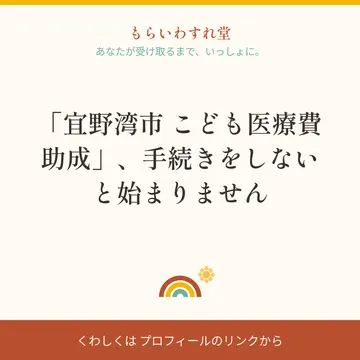
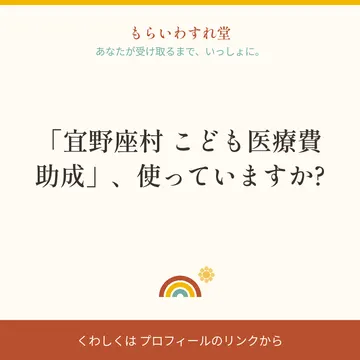
auto: もらいわすれ堂 週次レポート 2026-11-16

Changed region(s): [[0.0917, 0.3056, 0.9167, 0.5806]]

diff --git a/site/staff/haruka/index.html b/site/staff/haruka/index.html
@@ -35,8 +35,8 @@ h2{font-size:1.02rem;margin-bottom:10px;line-height:1.5}
 </head>
 <body>
 <div class="wrap">
-<h1>🌈 今週のIG投稿案(2026-W46)</h1>
-<p class="sub">更新: 2026-11-09 / 毎週月曜に自動更新 / このページは検索に載らない内部ページです</p>
+<h1>🌈 今週のIG投稿案(2026-W47)</h1>
+<p class="sub">更新: 2026-11-16 / 毎週月曜に自動更新 / このページは検索に載らない内部ページです</p>
 <div class="howto"><strong>遥さんの3分ルーティン(投稿画像も完成品です)</strong><br>
 ① 画像を長押しで保存 → ② 「キャプションをコピー」→ ③ Instagramに投稿(画像+キャプション貼り付け)<br>
 ④ 投稿したら、<b>投稿案メールに返信</b>で「案1 投稿した」と一言(使わない案は「案4 なし」)<br><span style="color:#B9502F">※LINEはこちらから送る専用で、返信を受け取れません</span><br>
@@ -45,16 +45,16 @@ h2{font-size:1.02rem;margin-bottom:10px;line-height:1.5}
 
 <div class="card">
   <div class="no">案1</div>
-  <h2>「宜野湾市 こども医療費助成」、手続きをしないと始まりません</h2>
+  <h2>「宜野座村 こども医療費助成」、使っていますか?</h2>
   <img class="igimg" src="img/ig1.png" alt="投稿画像 案1">
   <p class="hint">🖼 画像はこのまま使えます: 長押し(PCは右クリック)→保存→Instagramへ</p>
-  <div class="facts ok"><b>✅ 原文と照合ずみです(2026-08-06時点)</b><p>ここに書いてある範囲は、こちらで公式ページと突き合わせています。改めて読み直さずに使っていただいて大丈夫です。<br>ただし<b>「要確認」と書いてある項目だけは断定しないでください</b>(制度はあるが、金額や条件までは詰め切れていない、という意味です)。</p><dl><dt>制度名</dt><dd>宜野湾市 こども医療費助成</dd><dt>どこの制度か</dt><dd>宜野湾市</dd><dt>だれが対象か</dt><dd>宜野湾市に住み健康保険に加入している18歳(高校生年代)までのお子さんがいる世帯が対象となる可能性があります(令和7年10月〜拡大)</dd><dt>いくら</dt><dd>令和7年10月から18歳(高校生年代・年度末)までの通院・入院の医療費(保険診療分)が窓口無料(現物給付)になりました(要確認)</dd><dt>どこへ申し込むか</dt><dd>宜野湾市 こども企画課(こども医療費助成担当)窓口またはオンライン申請</dd><dt>いつまで</dt><dd>常時</dd></dl></div>
-  <div class="cap" id="cap1">子育て中のご家庭に、知らないままの方が多い制度です。「宜野湾市 こども医療費助成」。宜野湾市に住み健康保険に加入している18歳(高校生年代)までのお子さんがいる世帯が対象となる可能性があります(令和7年10月〜拡大)。申し込みの窓口は宜野湾市 こども企画課(こども医療費助成担当)窓口またはオンライン申請。金額や細かい条件は年度で変わることがあるので、このページでご確認ください。「うちは対象かな?」と思ったら、まず公式ページを見てみてください。
+  <div class="facts ok"><b>✅ 原文と照合ずみです(2026-08-06時点)</b><p>ここに書いてある範囲は、こちらで公式ページと突き合わせています。改めて読み直さずに使っていただいて大丈夫です。<br>ただし<b>「要確認」と書いてある項目だけは断定しないでください</b>(制度はあるが、金額や条件までは詰め切れていない、という意味です)。</p><dl><dt>制度名</dt><dd>宜野座村 こども医療費助成</dd><dt>どこの制度か</dt><dd>宜野座村</dd><dt>だれが対象か</dt><dd>宜野座村にお住まいで健康保険に加入しているお子さんを育てるご家庭が対象となる可能性があります。</dd><dt>いくら</dt><dd>出生(転入)から18歳(高校卒業年度末)までの医療費(保険診療分)を助成(要確認)</dd><dt>どこへ申し込むか</dt><dd>宜野座村役場 健康福祉課窓口</dd><dt>いつまで</dt><dd>常時</dd></dl></div>
+  <div class="cap" id="cap1">子育て中のご家庭に、知らないままの方が多い制度です。「宜野座村 こども医療費助成」。宜野座村にお住まいで健康保険に加入しているお子さんを育てるご家庭が対象になることがあります。申し込みの窓口は宜野座村役場 健康福祉課窓口。金額や細かい条件は年度で変わることがあるので、このページでご確認ください。「うちは対象かな?」と思ったら、まず公式ページを見てみてください。
 
-#もらいわすれ堂 #宜野湾市 #子育て #医療費 #宜野湾市こども医療費助成</div>
+#もらいわすれ堂 #宜野座村 #子育て #医療費 #宜野座村こども医療費助成</div>
   <button class="copy" data-t="cap1">キャプションをコピー</button>
-  <p class="caution">⚠ 投稿前の注意: 金額・期限・対象条件は本文に書かない(照合日 2026-08-06 時点の記録に基づく案のため)。「対象になることがあります」の言い方を崩さない。制度ID fk-ginowan-kodomo-iryo<br>
-  出典: <a href="https://www.city.ginowan.lg.jp/soshiki/kodomo/3/4/9333.html" rel="noopener" target="_blank">公式ページを開く</a></p>
+  <p class="caution">⚠ 投稿前の注意: 金額・期限・対象条件は本文に書かない(照合日 2026-08-06 時点の記録に基づく案のため)。「対象になることがあります」の言い方を崩さない。制度ID fk-ginoza-kodomo-iryo<br>
+  出典: <a href="https://www.vill.ginoza.okinawa.jp/tetsuzuki/29.html" rel="noopener" target="_blank">公式ページを開く</a></p>
 </div>
 <p class="sub">投稿の最終判断は遥さん・小柳さんにお任せします(ここは提案まで)。文面の相談はチャットへいつでもどうぞ。</p>
 </div>

diff --git a/reports/fukugiiro/latest.md b/reports/fukugiiro/latest.md
@@ -1,6 +1,6 @@
-# もらいわすれ堂 週次レポート 2026-W46
+# もらいわすれ堂 週次レポート 2026-W47
 
-生成: 2026-11-09 12:19 JST(統括ユイさん・自動生成 / 達成くんフォーマット準拠)
+生成: 2026-11-16 12:28 JST(統括ユイさん・自動生成 / 達成くんフォーマット準拠)
 北極星: **実受給額カウンター**。登録・PVが伸びても、この数字が動かなければ「進んでいない」。
 
 ---
@@ -19,10 +19,10 @@
 
 | 北極星 | 現在地 | 12ヶ月目標 | 必要ペース(週) |
 |---|---|---|---|
-| ❶ サイト訪問 | **2026-11 月55人**(KGIの0.5% / 2026-11-09まで途中集計)/ 直近7日 53人<br>⚠ 直帰率が高い(直帰88% / 滞在4秒)。実訪問は表示より少ない可能性 | 月10,000人 | 約2,308人 |
+| ❶ サイト訪問 | **2026-11 月89人**(KGIの0.9% / 2026-11-16まで途中集計)/ 直近7日 34人<br>⚠ 直帰率が高い(直帰87% / 滞在20秒)。実訪問は表示より少ない可能性 | 月10,000人 | 約2,308人 |
 | ❷ 受給報告 | 0世帯(検証済みのみ) | 1,000件 | 約19件 |
 | ❸ IGフォロワー | 0人(2026-09-21時点) | 1,000人 | 約20人 |
-| ❹ LINE友だち | 未取得: 未接続(トークン未登録)(確認 2026-11-09 12:19) | 10,000人 | 約192人 |
+| ❹ LINE友だち | 未取得: 未接続(トークン未登録)(確認 2026-11-16 12:28) | 10,000人 | 約192人 |
 
 *取れない数字は空欄ではなく理由を書く(未接続=小柳さんのトークン共有待ち)。ペースは12ヶ月÷52週の定常値。*
 
@@ -35,56 +35,57 @@
 
 ## 2. ファネル(自動取得 — GA4 Data API / 直近7d)
 
-更新: 2026-11-09。集計値のみ(個人識別子なし)。
+更新: 2026-11-16。集計値のみ(個人識別子なし)。
 
 | 段 | 件数 | 前段比 | 離脱率 |
 |---|---|---|---|
-| 診断開始 | 15 | — | — |
-| Q2到達 | 2 | 13% | 87% |
-| Q3到達 | 2 | 100% | 0% |
-| Q4到達 | 2 | 100% | 0% |
-| Q5到達 | 2 | 100% | 0% |
-| 診断完了(1件以上) | 4 | 200% | -100% |
-| LINE誘導クリック | 2 | 50% | 50% |
+| 診断開始 | 7 | — | — |
+| Q2到達 | 1 | 14% | 86% |
+| Q3到達 | 1 | 100% | 0% |
+| Q4到達 | 1 | 100% | 0% |
+| Q5到達 | 1 | 100% | 0% |
+| 診断完了(1件以上) | 1 | 100% | 0% |
+| LINE誘導クリック | 0 | 0% | 100% |
 
-**最大離脱**: 診断開始→Q2到達(−87%)← 今週ここが一番落ちている傾向。
+**最大離脱**: 診断完了(1件以上)→LINE誘導クリック(−100%)← 今週ここが一番落ちている傾向。
 
-⚠ 診断完了 n=4(<30)のため、転換率の増減で施策効果を断定しない(n≥30到達まで判断保留 — 2026-08-10 三名体制裁定)。
+⚠ 診断完了 n=1(<30)のため、転換率の増減で施策効果を断定しない(n≥30到達まで判断保留 — 2026-08-10 三名体制裁定)。
 
-**診断完了→LINE誘導**: 50%(KPI 30%) / **完了率**: 27% / **0件率**: 0%
+**診断完了→LINE誘導**: 0%(KPI 30%) / **完了率**: 14% / **0件率**: 0%
 
-補助: IGプロフィール→診断 0 / トップの診断CTA 6 / 準備シート 0 / 受給ずみ 0 / 報告ページへ 0(内訳 top0/診断0/シート0/市町村0/ライフ0) / 報告の送信 0 / 0件 0
+補助: IGプロフィール→診断 0 / トップの診断CTA 1 / 準備シート 1 / 受給ずみ 0 / 報告ページへ 1(内訳 top1/診断0/シート0/市町村0/ライフ0) / 報告の送信 0 / 0件 0
 
 ## 3. 掲載・データ品質(自動集計)
 
 | 指標 | 値 | KPI | 判定 |
 |---|---|---|---|
-| 掲載制度数 | 257 件 | 常時150件以上 | ✅ |
-| 検証済み | 110 件(43%) | 誤情報ゼロ | 要確認 147件 |
-| 原文の裏取り | 5 件が内容未確認 | 検証済み表示は全件が原文確認済み | ⚠ 検証済み表示のまま内容を確認できず(2026-11-09 09:32 時点)。docs/フクギイロ_突合レポート.md の要対応欄 |
-| データ鮮度 | 2026-11-09 09:23 | 24時間以内 | ✅ 24時間以内 |
+| 掲載制度数 | 258 件 | 常時150件以上 | ✅ |
+| 検証済み | 111 件(43%) | 誤情報ゼロ | 要確認 147件 |
+| 原文の裏取り | 5 件が内容未確認 | 検証済み表示は全件が原文確認済み | ⚠ 検証済み表示のまま内容を確認できず(2026-11-16 09:42 時点)。docs/フクギイロ_突合レポート.md の要対応欄 |
+| データ鮮度 | 2026-11-16 09:33 | 24時間以内 | ✅ 24時間以内 |
 | 自己点検 | 新規NG 0 件 / 既知の負債 0 件 | 新規の違反ゼロ | ✅ 新規の違反なし |
 | 市町村ページ | 41 ページ | 41市町村 | ✅ |
-| 申請準備シート | 257 ページ | 全制度 | ✅ |
+| 申請準備シート | 258 ページ | 全制度 | ✅ |
 
-カテゴリ別: 医療・健康 94 / 子育て 38 / 生活支援 38 / 教育 36 / 介護 17 / 仕事・失業 15 / 住まい 13 / 防災・その他 6
+カテゴリ別: 医療・健康 94 / 子育て 38 / 生活支援 38 / 教育 37 / 介護 17 / 仕事・失業 15 / 住まい 13 / 防災・その他 6
 
 ### 人の手が要る残件(自己点検より)
 
 - IGフォロワー数が自動取得できていません(MORADOU_IG_TOKEN 未登録)。プロアカウントならFacebookページ連携は不要です
 - IGフォロワーが0人のままです(2026-09-21時点)。まず関係者にフォローしてもらい、0を抜けてください
-- 議事_20260731_直近決定の三名検証.md の見直し期限(2026-10-31)が9日過ぎています。再議論してください
-- 議事_20260804_相談転換の設計.md の見直し期限(2026-11-04)が5日過ぎています。再議論してください
-- 議事_20260810_北極星ボトルネック裁定.md の見直し期限(2026-09-07)が63日過ぎています。再議論してください
-- 議事_20260817_verify照合判定基準.md の見直し期限(2026-11-06)が3日過ぎています。再議論してください
-- 議事_20260817_出荷ゲート通過記録.md の見直し期限まであと8日(2026-11-17)
-- 議事_20260818_沖縄市うるま市一時非公開.md の見直し期限(2026-09-01)が69日過ぎています。再議論してください
-- 議事_20260818_開拓効率化アイデア出し.md の見直し期限まであと9日(2026-11-18)
-- 議事_20260823_X体験共有解禁と運営実録.md の見直し期限(2026-09-30)が40日過ぎています。再議論してください
-- 議事_20260921_見直し期限切れ6件の再議論.md の見直し期限(2026-09-21)が49日過ぎています。再議論してください
-- 議事_20261004_スキル改善プロジェクト開始.md の見直し期限(2026-11-06)が3日過ぎています。再議論してください
-- 議事_airecipe監査_2026-08-17.md の見直し期限まであと0日(2026-11-09)
-- 議事_note新路線_うごくAIレシピ_2026-08-09.md の見直し期限まであと0日(2026-11-09)
+- 議事_20260731_直近決定の三名検証.md の見直し期限(2026-10-31)が16日過ぎています。再議論してください
+- 議事_20260803_体制ゼロベース見直し.md の見直し期限まであと14日(2026-11-30)
+- 議事_20260804_相談転換の設計.md の見直し期限(2026-11-04)が12日過ぎています。再議論してください
+- 議事_20260810_北極星ボトルネック裁定.md の見直し期限(2026-09-07)が70日過ぎています。再議論してください
+- 議事_20260817_verify照合判定基準.md の見直し期限(2026-11-06)が10日過ぎています。再議論してください
+- 議事_20260817_出荷ゲート通過記録.md の見直し期限まであと1日(2026-11-17)
+- 議事_20260818_沖縄市うるま市一時非公開.md の見直し期限(2026-09-01)が76日過ぎています。再議論してください
+- 議事_20260818_開拓効率化アイデア出し.md の見直し期限まであと2日(2026-11-18)
+- 議事_20260823_X体験共有解禁と運営実録.md の見直し期限(2026-09-30)が47日過ぎています。再議論してください
+- 議事_20260921_見直し期限切れ6件の再議論.md の見直し期限(2026-09-21)が56日過ぎています。再議論してください
+- 議事_20261004_スキル改善プロジェクト開始.md の見直し期限(2026-11-06)が10日過ぎています。再議論してください
+- 議事_airecipe監査_2026-08-17.md の見直し期限(2026-11-09)が7日過ぎています。再議論してください
+- 議事_note新路線_うごくAIレシピ_2026-08-09.md の見直し期限(2026-11-09)が7日過ぎています。再議論してください
 
 ## 4. 品質・統制(ニドナシ機構 / eval)
 
@@ -95,7 +96,7 @@
 ## 5. 資産の積み上がり(再訪しやすさ)
 
 - 診断のつづき機能・受給ずみマーク・準備シートのチェック/メモ保存 = すべて端末内保存(外部送信なし)
-- SNS投稿下書き: posts/fukugiiro/(検証済み110件から生成)。Instagram開設後に承認→投稿
+- SNS投稿下書き: posts/fukugiiro/(検証済み111件から生成)。Instagram開設後に承認→投稿
 
 ## 6. 夫婦の週労働時間(手動記入)
 

diff --git a/reports/fukugiiro/2026-W47_weekly.md b/reports/fukugiiro/2026-W47_weekly.md
@@ -1,0 +1,115 @@
+# もらいわすれ堂 週次レポート 2026-W47
+
+生成: 2026-11-16 12:28 JST(統括ユイさん・自動生成 / 達成くんフォーマット準拠)
+北極星: **実受給額カウンター**。登録・PVが伸びても、この数字が動かなければ「進んでいない」。
+
+---
+
+## 0. 今週の結論(単一ネクストアクション)
+
+> **ボトルネック**: LINEは開設済みだが受給報告がまだ0件。ファネル最終段(申請着手→受給)の実測が始まっていない。
+>
+> **次の一手(今週これだけ)**: 既存のLINE友だちに『受け取れたら教えてください』の初回配信を送る(文面は開設パッケージ§5)。
+
+*yui.md原則: 施策は1ヶ月に1つしか変えない / 迷ったら「受給完了に近づくか」で判断。*
+
+## 1. 北極星 — 4目標の現在地と実受給額
+
+### 北極星4本の現在地 × 必要ペース
+
+| 北極星 | 現在地 | 12ヶ月目標 | 必要ペース(週) |
+|---|---|---|---|
+| ❶ サイト訪問 | **2026-11 月89人**(KGIの0.9% / 2026-11-16まで途中集計)/ 直近7日 34人<br>⚠ 直帰率が高い(直帰87% / 滞在20秒)。実訪問は表示より少ない可能性 | 月10,000人 | 約2,308人 |
+| ❷ 受給報告 | 0世帯(検証済みのみ) | 1,000件 | 約19件 |
+| ❸ IGフォロワー | 0人(2026-09-21時点) | 1,000人 | 約20人 |
+| ❹ LINE友だち | 未取得: 未接続(トークン未登録)(確認 2026-11-16 12:28) | 10,000人 | 約192人 |
+
+*取れない数字は空欄ではなく理由を書く(未接続=小柳さんのトークン共有待ち)。ペースは12ヶ月÷52週の定常値。*
+
+| 指標 | 今週 | 状態 |
+|---|---|---|
+| 実受給額(累計) | 0 円 | 受付開始前(LINE開設待ち) |
+| 支援世帯数(受給報告) | 0 世帯 | 受付開始前(LINE開設待ち) |
+
+受給報告が入り始めると、この表が自動で埋まります(data/fukugiiro/jukyu_reports.json / 検証済みのみ計上)。
+
+## 2. ファネル(自動取得 — GA4 Data API / 直近7d)
+
+更新: 2026-11-16。集計値のみ(個人識別子なし)。
+
+| 段 | 件数 | 前段比 | 離脱率 |
+|---|---|---|---|
+| 診断開始 | 7 | — | — |
+| Q2到達 | 1 | 14% | 86% |
+| Q3到達 | 1 | 100% | 0% |
+| Q4到達 | 1 | 100% | 0% |
+| Q5到達 | 1 | 100% | 0% |
+| 診断完了(1件以上) | 1 | 100% | 0% |
+| LINE誘導クリック | 0 | 0% | 100% |
+
+**最大離脱**: 診断完了(1件以上)→LINE誘導クリック(−100%)← 今週ここが一番落ちている傾向。
+
+⚠ 診断完了 n=1(<30)のため、転換率の増減で施策効果を断定しない(n≥30到達まで判断保留 — 2026-08-10 三名体制裁定)。
+
+**診断完了→LINE誘導**: 0%(KPI 30%) / **完了率**: 14% / **0件率**: 0%
+
+補助: IGプロフィール→診断 0 / トップの診断CTA 1 / 準備シート 1 / 受給ずみ 0 / 報告ページへ 1(内訳 top1/診断0/シート0/市町村0/ライフ0) / 報告の送信 0 / 0件 0
+
+## 3. 掲載・データ品質(自動集計)
+
+| 指標 | 値 | KPI | 判定 |
+|---|---|---|---|
+| 掲載制度数 | 258 件 | 常時150件以上 | ✅ |
+| 検証済み | 111 件(43%) | 誤情報ゼロ | 要確認 147件 |
+| 原文の裏取り | 5 件が内容未確認 | 検証済み表示は全件が原文確認済み | ⚠ 検証済み表示のまま内容を確認できず(2026-11-16 09:42 時点)。docs/フクギイロ_突合レポート.md の要対応欄 |
+| データ鮮度 | 2026-11-16 09:33 | 24時間以内 | ✅ 24時間以内 |
+| 自己点検 | 新規NG 0 件 / 既知の負債 0 件 | 新規の違反ゼロ | ✅ 新規の違反なし |
+| 市町村ページ | 41 ページ | 41市町村 | ✅ |
+| 申請準備シート | 258 ページ | 全制度 | ✅ |
+
+カテゴリ別: 医療・健康 94 / 子育て 38 / 生活支援 38 / 教育 37 / 介護 17 / 仕事・失業 15 / 住まい 13 / 防災・その他 6
+
+### 人の手が要る残件(自己点検より)
+
+- IGフォロワー数が自動取得できていません(MORADOU_IG_TOKEN 未登録)。プロアカウントならFacebookページ連携は不要です
+- IGフォロワーが0人のままです(2026-09-21時点)。まず関係者にフォローしてもらい、0を抜けてください
+- 議事_20260731_直近決定の三名検証.md の見直し期限(2026-10-31)が16日過ぎています。再議論してください
+- 議事_20260803_体制ゼロベース見直し.md の見直し期限まであと14日(2026-11-30)
+- 議事_20260804_相談転換の設計.md の見直し期限(2026-11-04)が12日過ぎています。再議論してください
+- 議事_20260810_北極星ボトルネック裁定.md の見直し期限(2026-09-07)が70日過ぎています。再議論してください
+- 議事_20260817_verify照合判定基準.md の見直し期限(2026-11-06)が10日過ぎています。再議論してください
+- 議事_20260817_出荷ゲート通過記録.md の見直し期限まであと1日(2026-11-17)
+- 議事_20260818_沖縄市うるま市一時非公開.md の見直し期限(2026-09-01)が76日過ぎています。再議論してください
+- 議事_20260818_開拓効率化アイデア出し.md の見直し期限まであと2日(2026-11-18)
+- 議事_20260823_X体験共有解禁と運営実録.md の見直し期限(2026-09-30)が47日過ぎています。再議論してください
+- 議事_20260921_見直し期限切れ6件の再議論.md の見直し期限(2026-09-21)が56日過ぎています。再議論してください
+- 議事_20261004_スキル改善プロジェクト開始.md の見直し期限(2026-11-06)が10日過ぎています。再議論してください
+- 議事_airecipe監査_2026-08-17.md の見直し期限(2026-11-09)が7日過ぎています。再議論してください
+- 議事_note新路線_うごくAIレシピ_2026-08-09.md の見直し期限(2026-11-09)が7日過ぎています。再議論してください
+
+## 4. 品質・統制(ニドナシ機構 / eval)
+
+- 失敗台帳: 記録8 / 監視中5 / クローズ0 / **再発0**
+- CI/検査: validate(スキーマ・整合・禁止表現)・check_lp(全ページ可視文言)・node test(診断ロジック9)= マージ必須ゲート
+- 自律度: 金・契約=人間のみ / 公開・配信=承認後 / 収集・生成=自動+事後監査
+
+## 5. 資産の積み上がり(再訪しやすさ)
+
+- 診断のつづき機能・受給ずみマーク・準備シートのチェック/メモ保存 = すべて端末内保存(外部送信なし)
+- SNS投稿下書き: posts/fukugiiro/(検証済み111件から生成)。Instagram開設後に承認→投稿
+
+## 6. 夫婦の週労働時間(手動記入)
+
+> 今週の合計時間: ____ 時間(先週比 ____)
+>
+> *増えていたら「自動化の設計ミス」として記録する(yui.md)。数字を追うより仕組みで減らす。*
+
+---
+
+## 人間の次アクション(この週の依頼)
+
+1. 上の**セクション0の一手**を進める(いまは最上位の詰まりを1つだけ)
+2. ファネル(§2)を確認 — 自動取得済みなら最大離脱段を1つ見る/未取得なら手動で数値を記入
+3. 週労働時間(§6)を記入
+
+*本レポートは自動生成の初号機です。項目の過不足は月次レビューでユイさん+みがきの会が見直します。*
